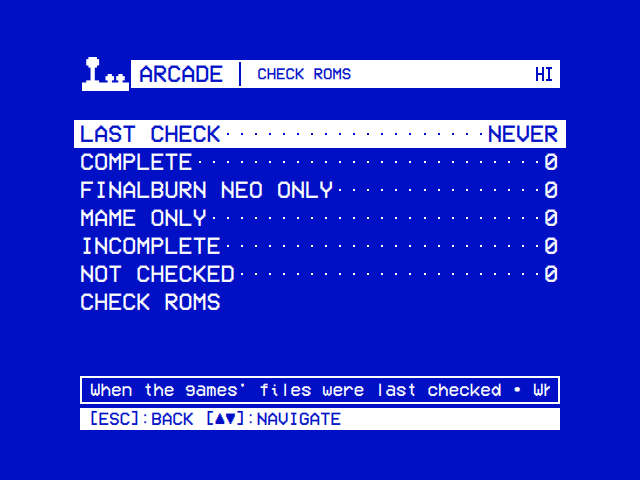
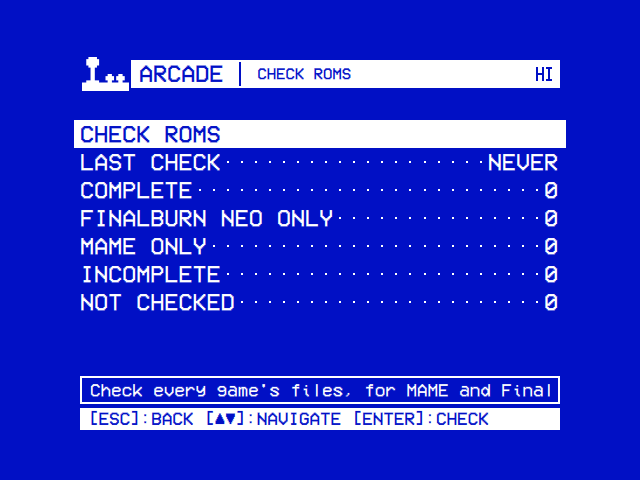
docs: show Check ROMs' page with its action first
The Check ROMs screenshot showed the page as it was, its Check ROMs row
last under the counts. It is taken again at 640x480 in the Standard
layout, the page opening on Check ROMs with the counts under it, and the
wiki's and the tour's descriptions of it follow.

diff --git a/docs/wiki/Arcade.md b/docs/wiki/Arcade.md
@@ -390,7 +390,7 @@ Names, years, makers, players and systems come from MAME. Those of a set only Fi
 
 **Settings → Arcade → Check ROMs** says whether each game's files are whole, for MAME and for FinalBurn Neo. Start it with **Check ROMs**, the page's first row, the cursor on it, which shows how far it has got: nothing starts it by itself. What the last check found is under it. It takes a few minutes on a Raspberry Pi, and a game started meanwhile holds it (`Waiting`). Started while the games are still being read, it waits for that too, and then checks them all.
 
-<img src="https://raw.githubusercontent.com/mehmetraif/OSD-OS/main/docs/screenshots/check-roms.png" width="480" alt="Settings → Arcade → Check ROMs: Last Check Never, the counts of Complete, FinalBurn Neo Only, MAME Only, Incomplete and Not Checked games, and the Check ROMs row">
+<img src="https://raw.githubusercontent.com/mehmetraif/OSD-OS/main/docs/screenshots/check-roms.png" width="480" alt="Settings → Arcade → Check ROMs: the Check ROMs row first with the cursor on it, then Last Check Never and the counts of Complete, FinalBurn Neo Only, MAME Only, Incomplete and Not Checked games">
 
 The page counts the games: **Complete** (whole for every engine that knows them), **FinalBurn Neo Only** and **MAME Only** (whole for one engine), **Incomplete** (whole for neither) and **Not Checked**. What the check found is used at once:
 

diff --git a/docs/TOUR.md b/docs/TOUR.md
@@ -182,7 +182,7 @@ Settings → Arcade → **LAN Play** and **Online Play**: up to six players acro
 
 <table>
 <tr><th width="50%">Check ROMs</th><th width="50%">Cabinet Lock</th></tr>
-<tr><td><img src="screenshots/check-roms.png" width="100%" alt="Settings → Arcade → Check ROMs: Last Check, the counts of Complete, FinalBurn Neo Only, MAME Only, Incomplete and Not Checked games, and the Check ROMs row" /></td><td><img src="screenshots/cabinet-lock.png" width="100%" alt="Settings → Startup → Cabinet Lock: the lock and the buttons that open it" /></td></tr>
+<tr><td><img src="screenshots/check-roms.png" width="100%" alt="Settings → Arcade → Check ROMs: the Check ROMs row first with the cursor on it, then Last Check and the counts of Complete, FinalBurn Neo Only, MAME Only, Incomplete and Not Checked games" /></td><td><img src="screenshots/cabinet-lock.png" width="100%" alt="Settings → Startup → Cabinet Lock: the lock and the buttons that open it" /></td></tr>
 <tr><td>Started only from here: whether every game's files are whole, for MAME and for FinalBurn Neo. Each game then plays in the engine that has its files.</td><td>Settings → Startup → Cabinet Lock keeps a cabinet on the Arcade screen for the players; the menus open only with up to four buttons of your choosing held together.</td></tr>
 </table>
 
